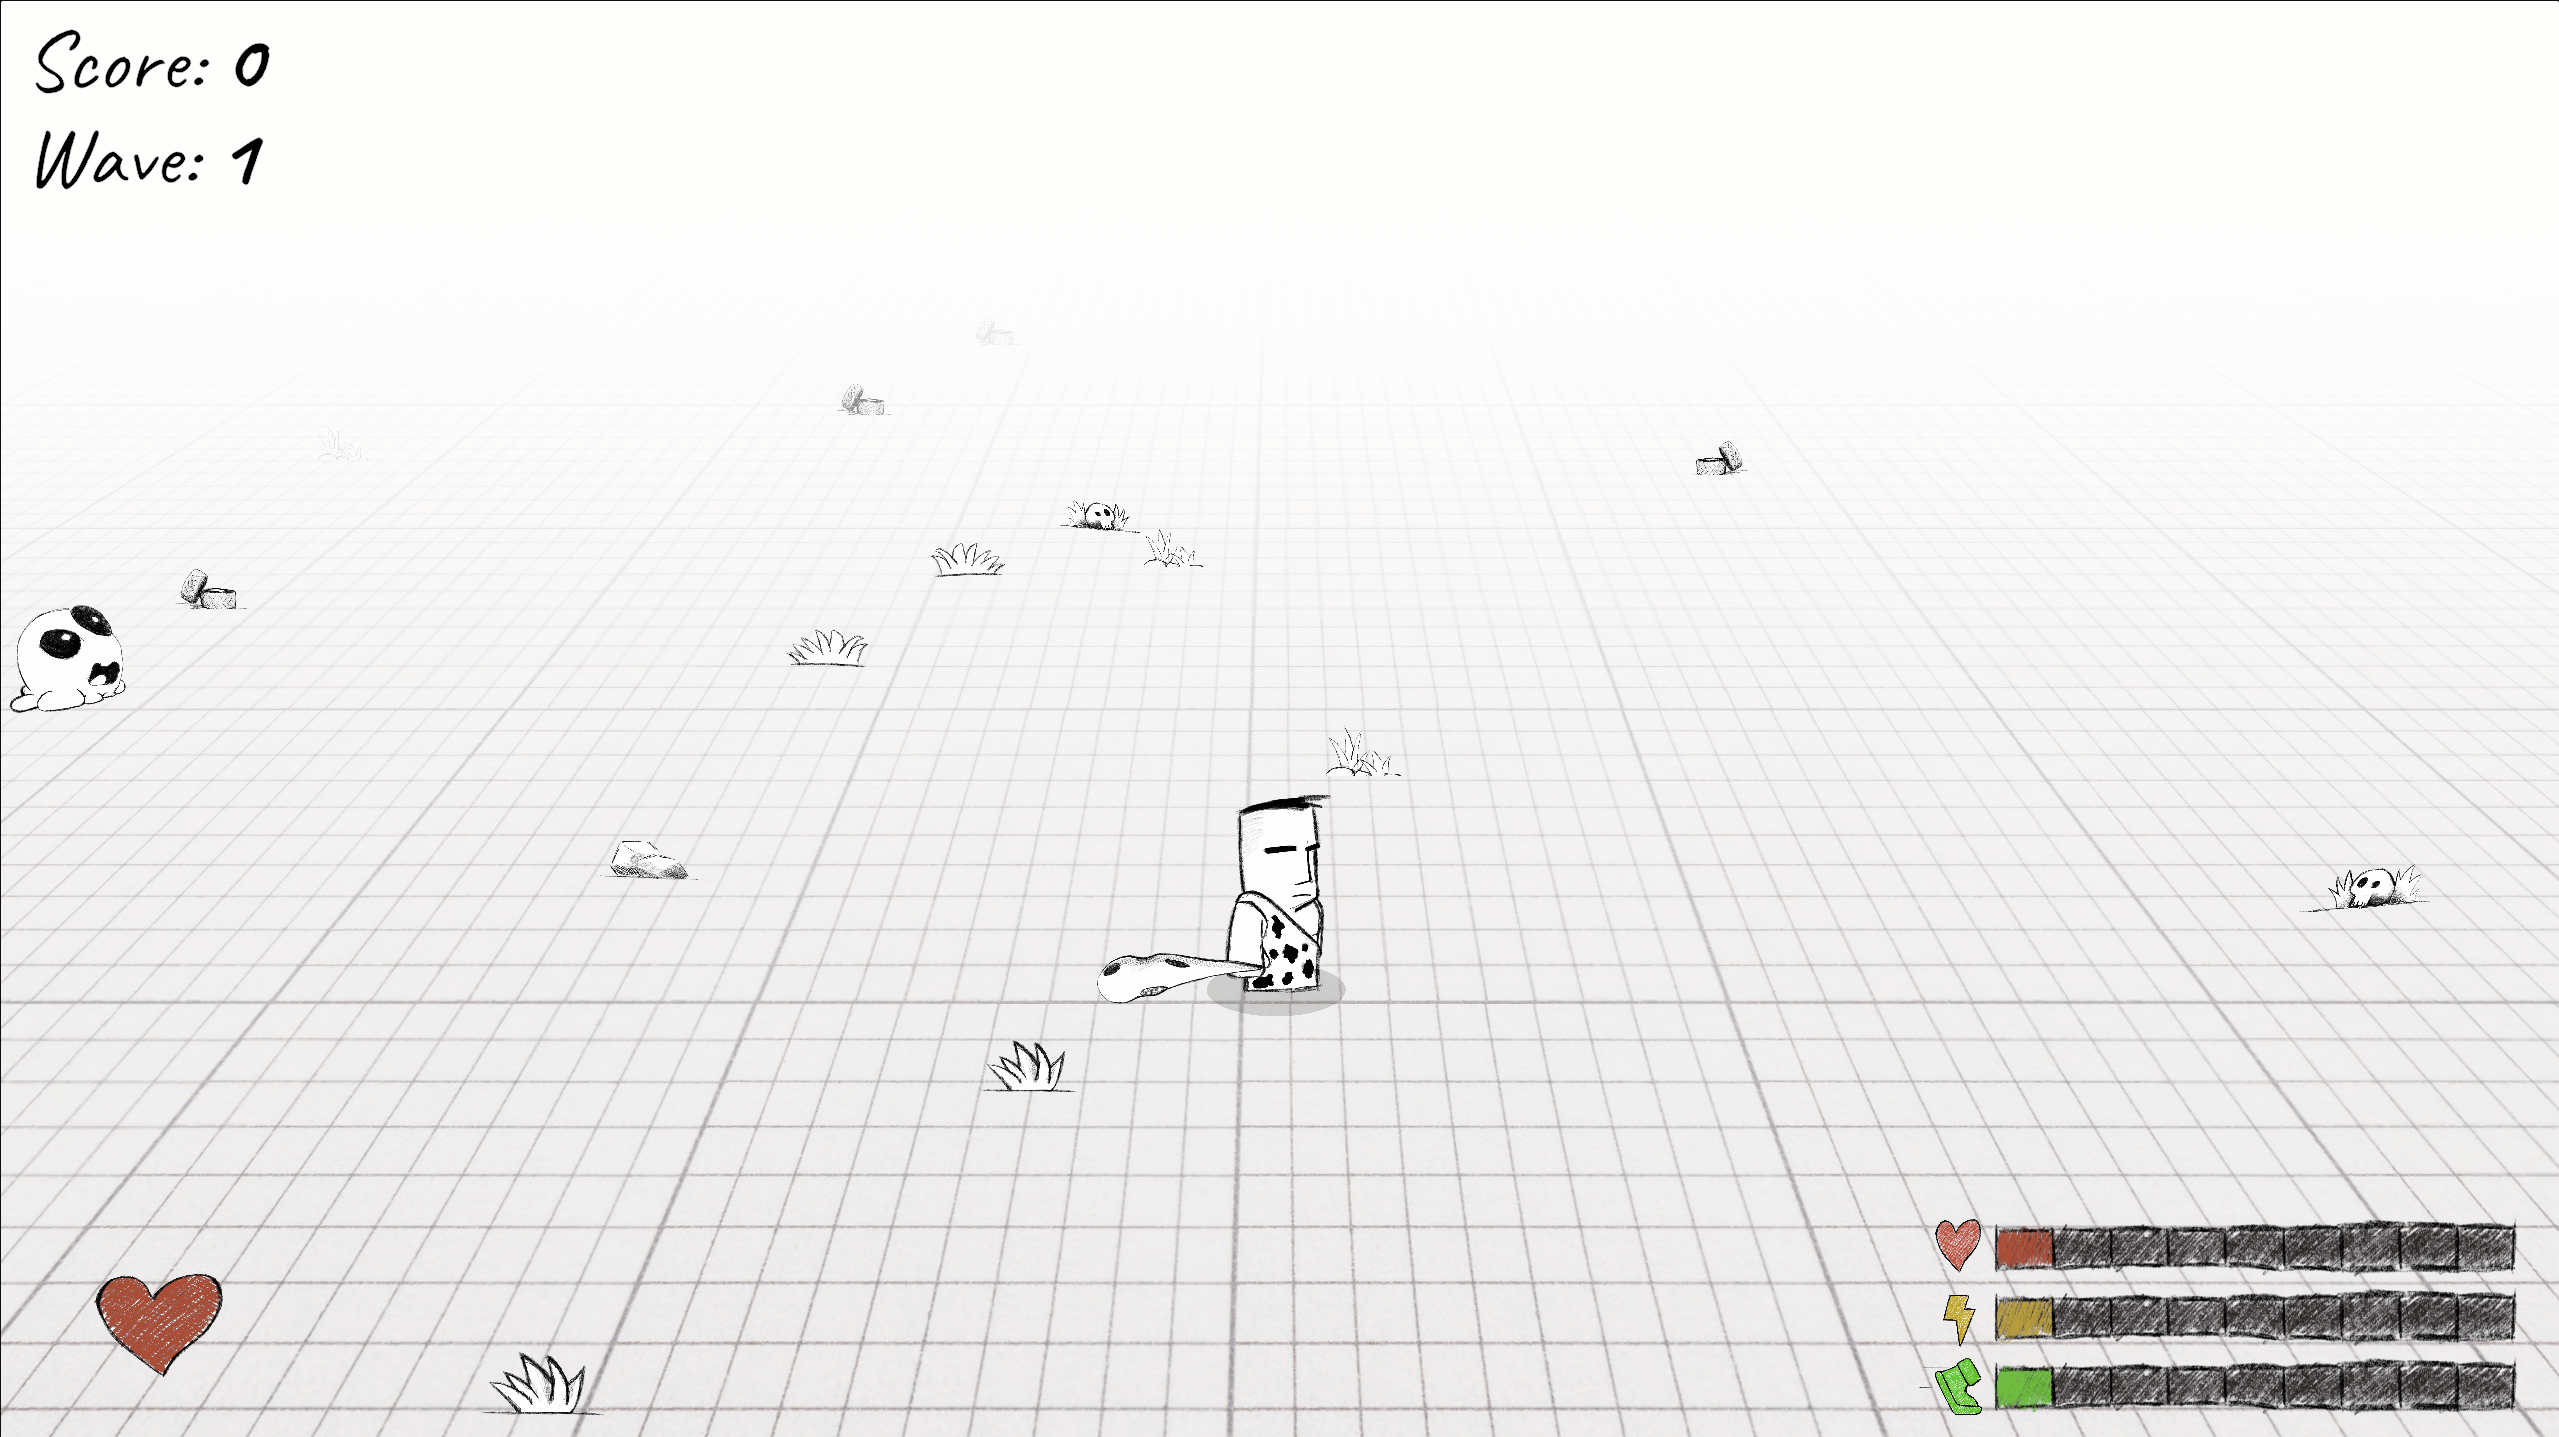
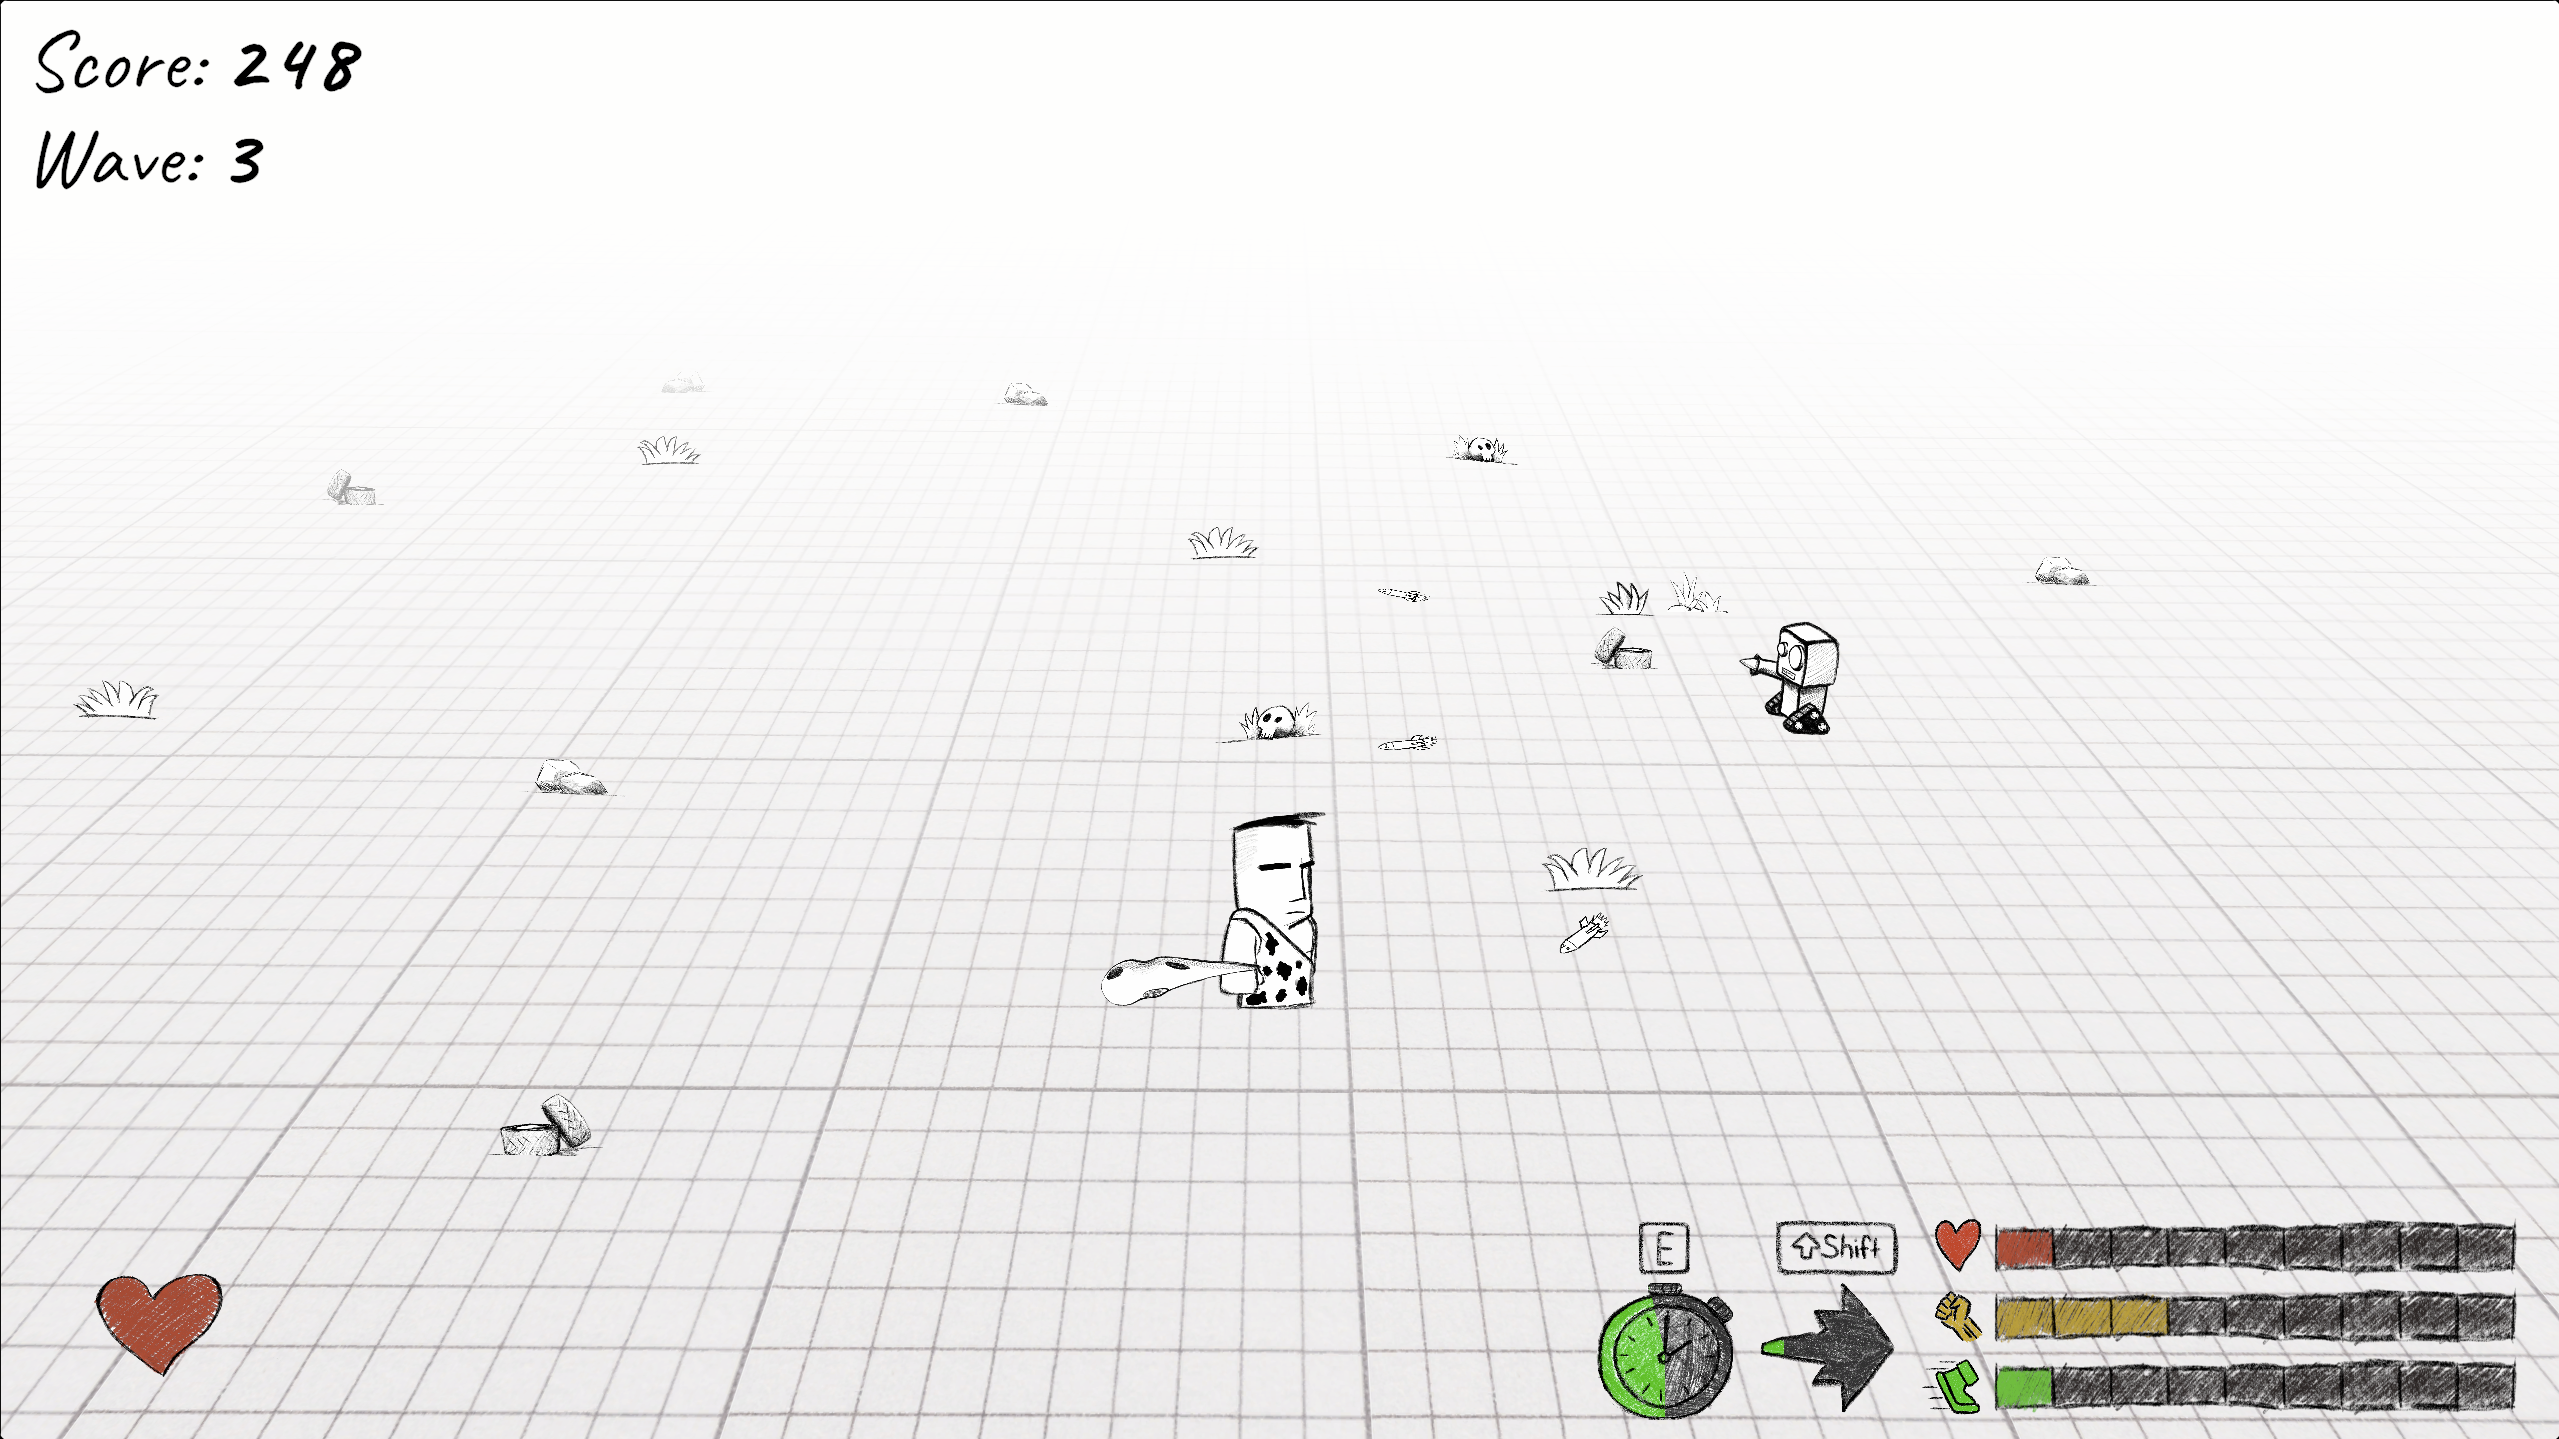
new slides for game

diff --git a/scripts/cms.js b/scripts/cms.js
@@ -8,7 +8,9 @@ const projectsData = {
             "images": [
                 "Ressources/Caveman_hits_Giraffe_in_a_Car/1.png",
                 "Ressources/Caveman_hits_Giraffe_in_a_Car/2.png",
-                "Ressources/Caveman_hits_Giraffe_in_a_Car/3.png"
+                "Ressources/Caveman_hits_Giraffe_in_a_Car/3.png",
+                "Ressources/Caveman_hits_Giraffe_in_a_Car/4.png",
+                "Ressources/Caveman_hits_Giraffe_in_a_Car/5.png"
             ],
             "name": "Caveman hits Giraffe in a Car",
             "description": "„Caveman Hits Giraffe in a Car“ ist ein rasantes Actionspiel, das während eines 5-tägigen Game Jams entstanden ist. In diesem handgezeichneten Roguelite kämpfst du gegen immer schwierigere Gegnerwellen, die aus den unterschiedlichsten Gegnertypen bestehen. Nach jeder Welle kannst du eine von drei Fähigkeiten verbessern: Gesundheit, Schaden oder Geschwindigkeit. Sammle zwischen den Spielen Punkte um einzigartige Fähigkeiten freizuspielen und miss dich mit unserer Spielerschaft auf der öffentlichen Bestenliste.",

diff --git a/style.css b/style.css
@@ -392,6 +392,11 @@ a {
     border: none;
 }
 
+#unity-container, #unity-canvas {
+    width: 100%;
+    height: 100%;
+}
+
 
 .text-waagerecht .project-description{
     align-self: center;
@@ -452,7 +457,7 @@ a {
 
 .navigation {
     position: absolute;
-    top: 39%;
+    top: 43%;
     transform: translateY(-50%);
     width: calc(var(--main-width) - 40px);
     display: flex;
